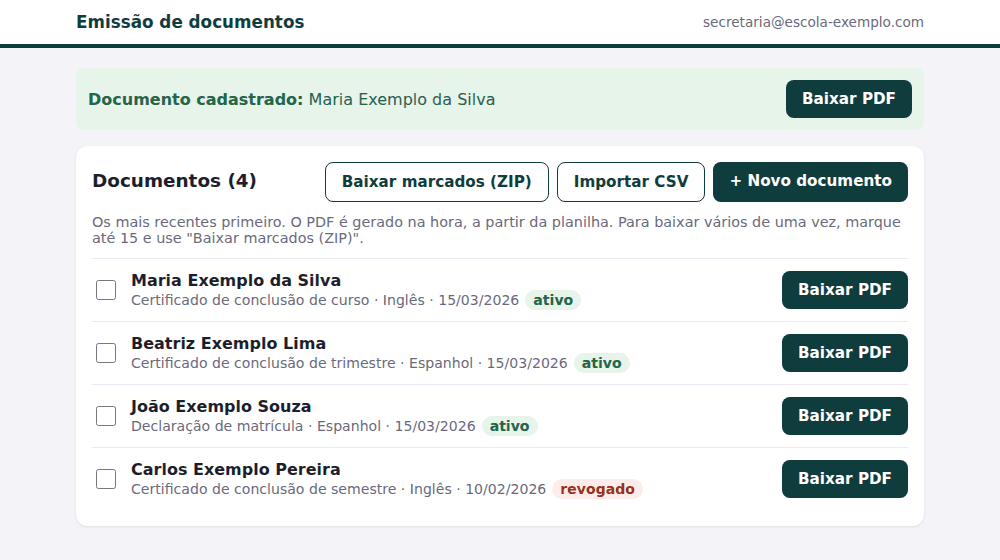
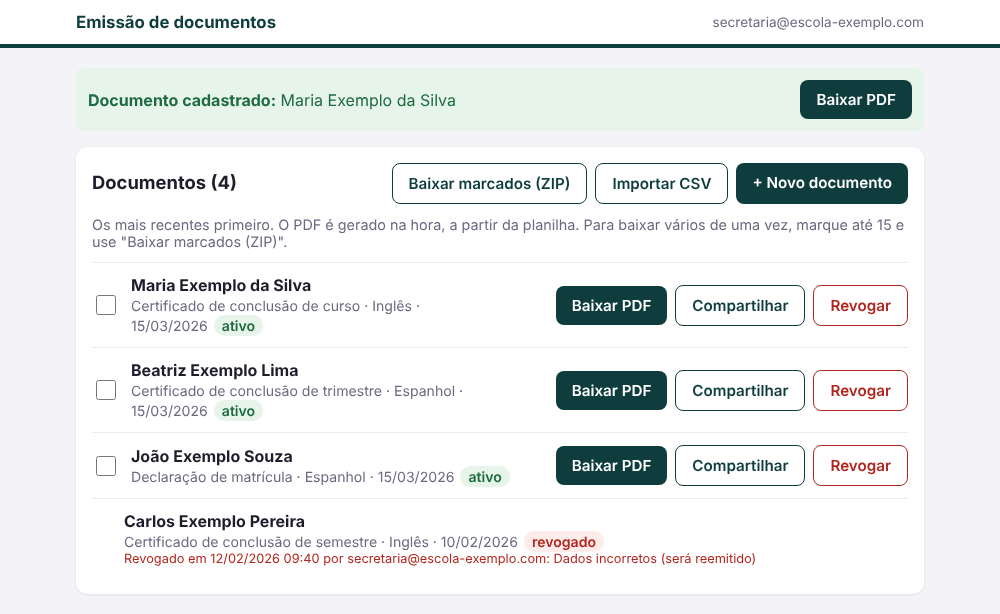
README: compartilhar, revogar e validação do revogado; telas atualizadas
- README: o revogado mostra só tipo e nome abreviado; em comum às duas
  versões, o texto de compartilhar e o PDF só de documento ativo.
- Galeria da emissão: lista atual (PDF, Compartilhar e Revogar só nos
  ativos) e uma linha nova com Compartilhar, Revogar e a validação do
  revogado. Telas geradas dos fluxos do repositório, com a identidade
  padrão e dados fictícios.
- python/README: PDF só de ativo e validação do revogado.

Claude-Session: https://claude.ai/code/session_01PVwVk5NmGAtCAoTJ8CGJdd

diff --git a/README.md b/README.md
@@ -7,7 +7,8 @@ do documento.
 Cada documento tem um ID aleatório de 12 caracteres. Quem recebe o documento
 escaneia o QR e consulta, numa página pública, o registro correspondente: se
 ele existe, se está ativo ou revogado, e só tipo, nome, curso, carga horária e
-data. CPF, RG e endereço nunca aparecem.
+data (do revogado, só o tipo e o nome abreviado). CPF, RG e endereço nunca
+aparecem.
 
 > Implementação técnica de um projeto real, feito para uma escola de idiomas.
 > Aqui só há dados fictícios e nenhuma credencial, para não identificar a
@@ -87,7 +88,9 @@ repositório completam o quadro.
 A consulta confirma que existe no registro do emissor um documento com aquele
 ID, qual o seu tipo, nome, curso, carga horária e data de emissão, e se ele está
 **ativo** ou **revogado**, conforme a leitura mais recente da planilha (até 30 s
-de cache no Python; sem cache no n8n).
+de cache no Python; sem cache no n8n). De um documento revogado, a página mostra
+só o tipo e o nome abreviado ("Maria S."), para quem confere saber que digitou o
+código certo; o motivo da revogação nunca aparece.
 
 Ela **não** detecta alteração posterior no arquivo PDF: quem confere deve
 comparar os dados mostrados na página com os do documento. Campos que a página
@@ -108,8 +111,10 @@ Problemas diferentes, que pediriam outra arquitetura:
 ## Implementações
 
 Em comum, pela especificação: colunas, tipos de documento, formato e checagem do
-ID, campos públicos, revogação, botão do LinkedIn e página de conteúdo
-programático (sempre no certificado de curso; no de semestre, a pedido).
+ID, campos públicos, revogação, botão do LinkedIn, página de conteúdo
+programático (sempre no certificado de curso; no de semestre, a pedido), texto
+pronto para compartilhar com o aluno (WhatsApp ou e-mail, só com o que a
+validação já mostra) e PDF só de documento ativo.
 
 | | [Python](python/) | [n8n](n8n/) |
 |---|---|---|
@@ -127,9 +132,13 @@ programático (sempre no certificado de curso; no de semestre, a pedido).
 Detalhes e demais diferenças: [`python/README.md`](python/README.md) e
 [`n8n/README.md`](n8n/README.md).
 
-| Login da emissão (n8n) | Lista com download em ZIP | Cadastro, com página de conteúdo a pedido |
+| Login da emissão (n8n) | Lista: PDF, ZIP, compartilhar e revogar | Cadastro, com página de conteúdo a pedido |
 |---|---|---|
-| <img src="docs/imagens/emissao-login.png" width="300" alt="Tela de login com o botão Fazer login com o Google"> | <img src="docs/imagens/emissao-lista.png" width="300" alt="Lista de documentos com caixas de seleção, Baixar marcados em ZIP, Importar CSV e Novo documento"> | <img src="docs/imagens/emissao-formulario.png" width="160" alt="Formulário de novo documento com o campo Página de conteúdo"> |
+| <img src="docs/imagens/emissao-login.png" width="300" alt="Tela de login com o botão Fazer login com o Google"> | <img src="docs/imagens/emissao-lista.png" width="300" alt="Lista de documentos: os ativos com Baixar PDF, Compartilhar e Revogar; o revogado com data, autor e motivo, sem botões"> | <img src="docs/imagens/emissao-formulario.png" width="160" alt="Formulário de novo documento com o campo Página de conteúdo"> |
+
+| Compartilhar com o aluno | Revogar, com motivo e confirmação | Validação do revogado |
+|---|---|---|
+| <img src="docs/imagens/emissao-compartilhar.png" width="300" alt="Quadro Compartilhar com o texto pronto para o aluno e os botões WhatsApp e E-mail"> | <img src="docs/imagens/emissao-revogar.png" width="300" alt="Quadro Revogar com os motivos, a justificativa e a confirmação"> | <img src="docs/imagens/validacao-revogado.png" width="160" alt="Página de validação dizendo que o documento não é mais válido, com o tipo e o nome abreviado"> |
 
 <sub>Telas da emissão n8n com a identidade padrão e dados fictícios.</sub>
 

diff --git a/python/README.md b/python/README.md
@@ -57,13 +57,14 @@ flask --app app run             # /validar (público) e /emitir (com senha)
 ```
 
 - **/validar** rejeita IDs fora do formato antes de consultar a planilha,
-  mostra só os campos públicos, trata como válido apenas `status = ativo` e
+  mostra só os campos públicos (do revogado, só o tipo e o nome abreviado),
+  trata como válido apenas `status = ativo` e
   limita cada visitante a 10 consultas por minuto (IPv6 contado por bloco
   /64). Guarda a planilha em cache por 30 s: uma revogação leva no máximo
   esse tempo para aparecer. ID repetido na planilha não valida. Se a planilha
   não puder ser lida, responde 503 com uma mensagem genérica.
-- **/emitir** lista os documentos com "Baixar PDF" em cada um e sugere IDs
-  novos. Usa a caixa de login do navegador (senha em `ADMIN_PASSWORD`); sem
+- **/emitir** lista os documentos com "Baixar PDF" em cada um ativo (revogado
+  não gera PDF) e sugere IDs novos. Usa a caixa de login do navegador (senha em `ADMIN_PASSWORD`); sem
   ela configurada, a área não existe. Depois de 10 senhas erradas em um
   minuto, o visitante fica bloqueado até a janela passar, inclusive para a
   senha certa. A emissão lê a planilha sem cache e marca IDs repetidos.
